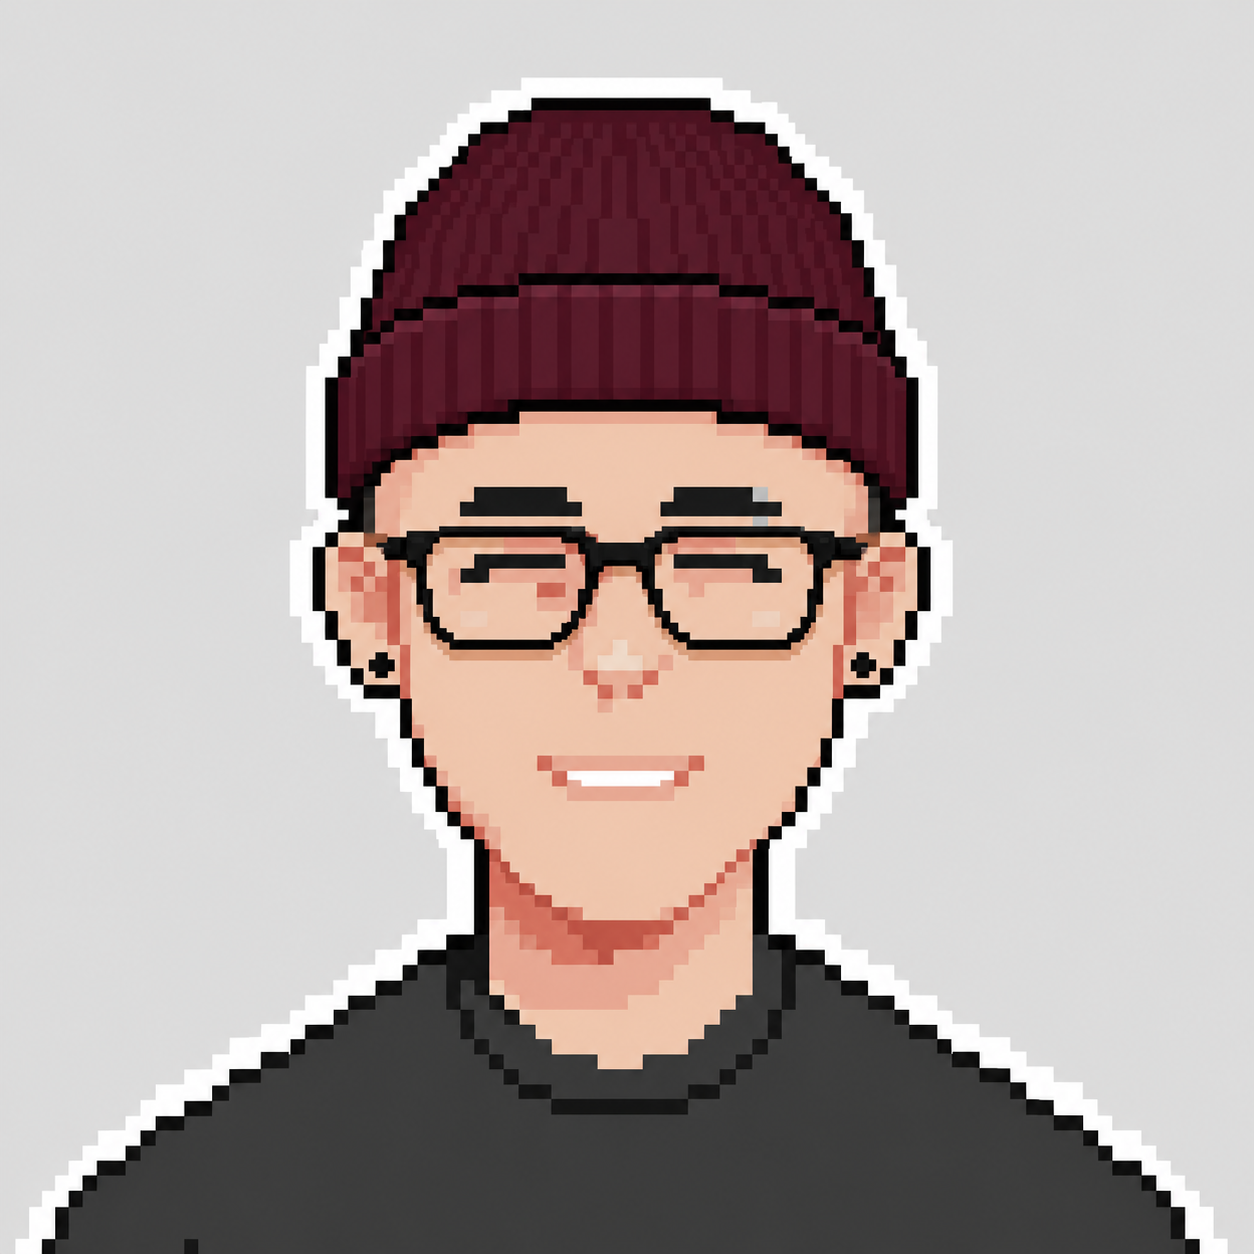
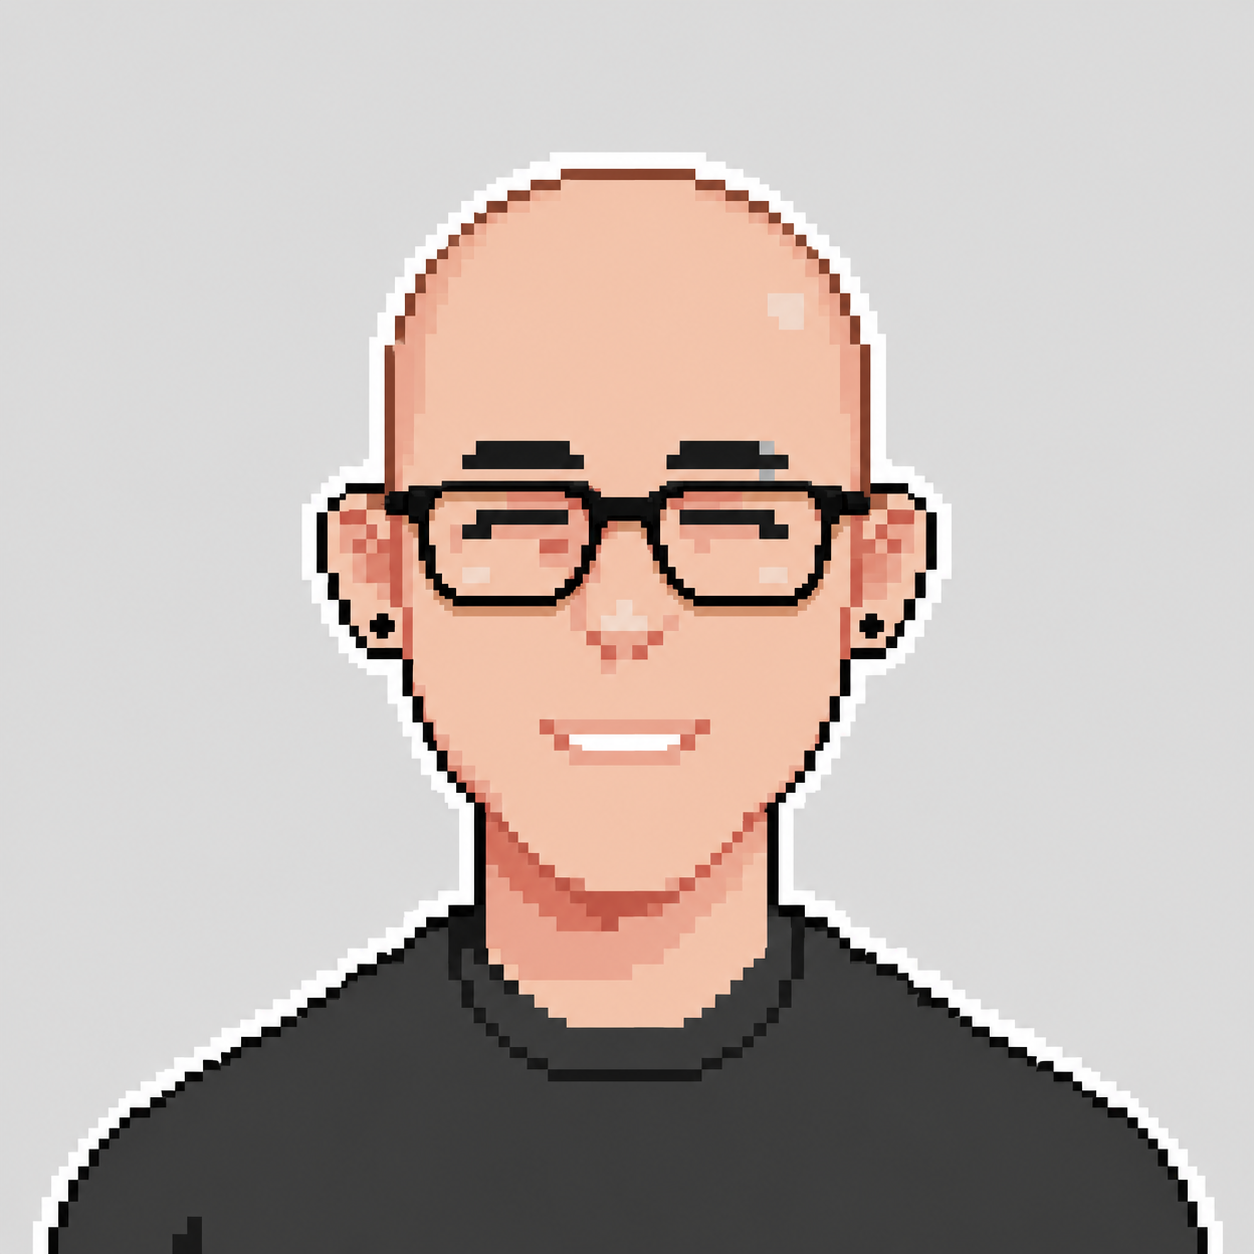
Style: Add stylelint scripts to package.json

Changed region(s): [[0.0, 0.0622, 0.9952, 1.0], [0.1244, 0.9641, 0.1866, 1.0]]

diff --git a/app/components/sections/about-section.tsx b/app/components/sections/about-section.tsx
@@ -130,11 +130,10 @@ export default function AboutSection({ id }: AboutSectionProps) {
 					<div className={`${ns}__bio-content`}>
 						<h3 className={`${ns}__name`}>Ryan Santos</h3>
 						<p className={`${ns}__bio-text`}>
-							I&apos;m a Frontend Engineer specializing in building performant
-							digital products with human-centered usability at their core. My
-							dev career has mostly been rooted in digital marketing and
-							e-commerce. I code up projects in my quiet home office in Los
-							Angeles, California.
+							I&apos;m a Frontend Engineer based out of Los Angeles, CA. I
+							specialize in building performant digital products with
+							human-centered usability at their core. My development career has
+							mostly been rooted in digital marketing and e-commerce.
 						</p>
 						<ul className={`${ns}__socials`}>
 							{socialLinks.map((link) => {

diff --git a/public/styles/main.css b/public/styles/main.css
@@ -1418,7 +1418,7 @@ em {
   box-shadow: 0 0 0 1px color-mix(in srgb, var(--content-color) 10%, transparent);
   border-radius: 10px;
   background-color: var(--background-primary-color);
-  padding: 16px 16px;
+  padding: 16px;
   min-height: 72px;
 }
 .about-section__skill-icon {
@@ -1516,7 +1516,7 @@ em {
     margin-bottom: 32px;
   }
 }
-@media (min-width: 1100px) {
+@media (width >= 1100px) {
   .about-section__skill-grid {
     grid-template-columns: repeat(4, minmax(0, 1fr));
   }
@@ -1705,7 +1705,7 @@ em {
   max-width: 100%;
   color: var(--content-color);
   text-align: center;
-  font-size: clamp(1.5rem, 4vw, 5rem);
+  font-size: clamp(1.5rem, 4vw, 4rem);
   line-height: 1.2;
   font-family: "DotGothic16", sans-serif;
   letter-spacing: 0.02em;

diff --git a/public/styles/components/sections/about-section.css b/public/styles/components/sections/about-section.css
@@ -89,7 +89,7 @@
   box-shadow: 0 0 0 1px color-mix(in srgb, var(--content-color) 10%, transparent);
   border-radius: 10px;
   background-color: var(--background-primary-color);
-  padding: 16px 16px;
+  padding: 16px;
   min-height: 72px;
 }
 .about-section__skill-icon {
@@ -187,7 +187,7 @@
     margin-bottom: 32px;
   }
 }
-@media (min-width: 1100px) {
+@media (width >= 1100px) {
   .about-section__skill-grid {
     grid-template-columns: repeat(4, minmax(0, 1fr));
   }

diff --git a/app/styles/components/sections/about-section.scss b/app/styles/components/sections/about-section.scss
@@ -107,7 +107,7 @@ $ns: '.about-section';
 		box-shadow: 0 0 0 1px color-mix(in srgb, var(--content-color) 10%, transparent);
 		border-radius: 10px;
 		background-color: var(--background-primary-color);
-		padding: 16px 16px;
+		padding: 16px;
 		min-height: 72px;
 	}
 
@@ -224,7 +224,7 @@ $ns: '.about-section';
 		}
 	}
 
-	@media (min-width: 1100px) {
+	@media (width >= 1100px) {
 		&__skill-grid {
 			grid-template-columns: repeat(4, minmax(0, 1fr));
 		}

diff --git a/app/styles/components/sections/hero-section.scss b/app/styles/components/sections/hero-section.scss
@@ -184,7 +184,7 @@ $ns: '.hero-section';
 		max-width: 100%;
 		color: var(--content-color);
 		text-align: center;
-		font-size: clamp(1.5rem, 4vw, 5rem);
+		font-size: clamp(1.5rem, 4vw, 4rem);
 		line-height: 1.2;
 		font-family: 'DotGothic16', sans-serif;
 		letter-spacing: 0.02em;

diff --git a/public/styles/components/sections/hero-section.css b/public/styles/components/sections/hero-section.css
@@ -177,7 +177,7 @@
   max-width: 100%;
   color: var(--content-color);
   text-align: center;
-  font-size: clamp(1.5rem, 4vw, 5rem);
+  font-size: clamp(1.5rem, 4vw, 4rem);
   line-height: 1.2;
   font-family: "DotGothic16", sans-serif;
   letter-spacing: 0.02em;
